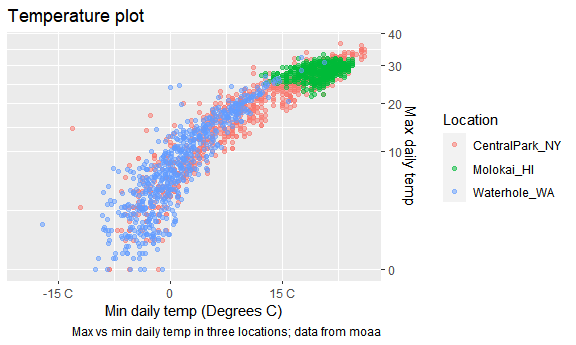
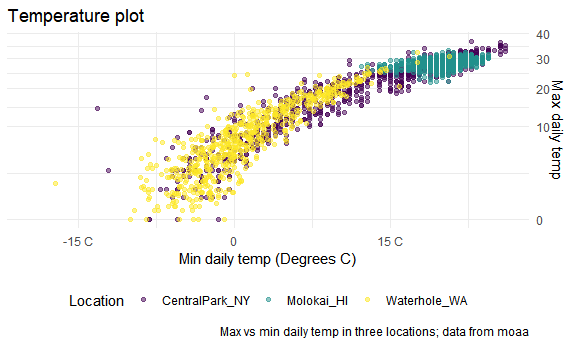
complicated plots

diff --git a/viz_part2.md b/viz_part2.md
@@ -17,11 +17,23 @@ library(tidyverse)
     ## ℹ Use the conflicted package (<http://conflicted.r-lib.org/>) to force all conflicts to become errors
 
 ``` r
+library(patchwork)
+
 knitr::opts_chunk$set(
   fig.width = 6,
   fig.asp = .6,
   out.width = "90%"
 )
+
+theme_set(theme_minimal() + theme(legend.position = "bottom"))
+
+options(
+  ggplot2.continuous.colour = "viridis",
+  ggplot2.continuous.fill = "viridis"
+)
+
+scale_colour_discrete = scale_colour_viridis_d
+scale_fill_discrete = scale_fill_viridis_d
 ```
 
 ``` r
@@ -129,3 +141,190 @@ weather_df |>
 <img src="viz_part2_files/figure-gfm/unnamed-chunk-5-1.png" width="90%" />
 
 ## Themes
+
+``` r
+weather_df |> 
+  ggplot(aes(x = tmin, y = tmax, color = name)) +
+  geom_point(alpha = 0.5) +
+  labs(
+    title = "Temperature plot",
+    x = "Min daily temp (Degrees C)",
+    y = "Max daily temp",
+    color = "Location",
+    caption = "Max vs min daily temp in three locations; data from moaa"
+  ) +
+  viridis::scale_color_viridis(discrete = TRUE) +
+  theme_minimal() +
+  theme(legend.position = "bottom") 
+```
+
+    ## Warning: Removed 17 rows containing missing values (`geom_point()`).
+
+<img src="viz_part2_files/figure-gfm/unnamed-chunk-6-1.png" width="90%" />
+
+## data argument …
+
+``` r
+weather_df |> 
+  ggplot(aes(x = date, y = tmax)) +
+  geom_point(aes(color = name)) +
+  geom_smooth()
+```
+
+    ## `geom_smooth()` using method = 'gam' and formula = 'y ~ s(x, bs = "cs")'
+
+    ## Warning: Removed 17 rows containing non-finite values (`stat_smooth()`).
+
+    ## Warning: Removed 17 rows containing missing values (`geom_point()`).
+
+<img src="viz_part2_files/figure-gfm/unnamed-chunk-7-1.png" width="90%" />
+
+``` r
+nyc_weather_df =
+  weather_df |> 
+  filter(name == "CentralPark_Ny")
+
+hawaii_weather_df =
+  weather_df |> 
+  filter(name == "Molokai_HI")
+
+ggplot(nyc_weather_df, aes(x = date, y = tmax, color = name)) +
+  geom_point() +
+  geom_line(data = hawaii_weather_df)
+```
+
+<img src="viz_part2_files/figure-gfm/unnamed-chunk-7-2.png" width="90%" />
+
+## `patchwork`
+
+``` r
+weather_df |> 
+  ggplot(aes(x = date, y = tmax, color = name)) +
+  geom_point() +
+  facet_grid(. ~ name)
+```
+
+    ## Warning: Removed 17 rows containing missing values (`geom_point()`).
+
+<img src="viz_part2_files/figure-gfm/unnamed-chunk-8-1.png" width="90%" />
+
+``` r
+ggp_temp_scatter =
+  weather_df |> 
+  ggplot(aes(x = tmin, y = tmax, color = name)) +
+  geom_point(alpha = 0.5)+
+  theme(legend.position = "none")
+
+ggp_prcp_density =
+  weather_df |> 
+  filter(prcp > 25) |> 
+  ggplot(aes(x = prcp, fill = name)) +
+  geom_density(alpha = 0.5)+
+  theme(legend.position = "none")
+
+ggp_tmax_date =
+  weather_df |> 
+  ggplot(aes(x = date, y = tmax, color = name)) +
+  geom_point() +
+  geom_smooth(se = FALSE) +
+  theme(legend.position = "bottom")
+
+(ggp_temp_scatter + ggp_prcp_density) / ggp_tmax_date
+```
+
+    ## Warning: Removed 17 rows containing missing values (`geom_point()`).
+
+    ## `geom_smooth()` using method = 'loess' and formula = 'y ~ x'
+
+    ## Warning: Removed 17 rows containing non-finite values (`stat_smooth()`).
+    ## Removed 17 rows containing missing values (`geom_point()`).
+
+<img src="viz_part2_files/figure-gfm/unnamed-chunk-9-1.png" width="90%" />
+
+## data manipulation
+
+``` r
+weather_df |> 
+  mutate(
+    name = fct_relevel(name, c("Molokai_HI", "CentralPark_NY", "Waterhole_WA"))
+  ) |> 
+  ggplot(aes(x = name, y = tmax)) +
+  geom_boxplot()
+```
+
+    ## Warning: Removed 17 rows containing non-finite values (`stat_boxplot()`).
+
+<img src="viz_part2_files/figure-gfm/unnamed-chunk-10-1.png" width="90%" />
+
+``` r
+weather_df |> 
+  mutate(
+    name = fct_reorder(name, tmax)
+  ) |> 
+  ggplot(aes(x = name, y = tmax, fill = name)) +
+  geom_violin()
+```
+
+    ## Warning: There was 1 warning in `mutate()`.
+    ## ℹ In argument: `name = fct_reorder(name, tmax)`.
+    ## Caused by warning:
+    ## ! `fct_reorder()` removing 17 missing values.
+    ## ℹ Use `.na_rm = TRUE` to silence this message.
+    ## ℹ Use `.na_rm = FALSE` to preserve NAs.
+
+    ## Warning: Removed 17 rows containing non-finite values (`stat_ydensity()`).
+
+<img src="viz_part2_files/figure-gfm/unnamed-chunk-10-2.png" width="90%" />
+
+## complicated FAS plot
+
+``` r
+litters_df = 
+  read_csv("data/FAS_litters.csv") |> 
+  janitor::clean_names() |> 
+  separate(group, into = c("dose", "day_of_tx"), sep = 3)
+```
+
+    ## Rows: 49 Columns: 8
+    ## ── Column specification ────────────────────────────────────────────────────────
+    ## Delimiter: ","
+    ## chr (2): Group, Litter Number
+    ## dbl (6): GD0 weight, GD18 weight, GD of Birth, Pups born alive, Pups dead @ ...
+    ## 
+    ## ℹ Use `spec()` to retrieve the full column specification for this data.
+    ## ℹ Specify the column types or set `show_col_types = FALSE` to quiet this message.
+
+``` r
+pups_df =
+  read_csv("data/FAS_pups.csv") |> 
+  janitor::clean_names()
+```
+
+    ## Rows: 313 Columns: 6
+    ## ── Column specification ────────────────────────────────────────────────────────
+    ## Delimiter: ","
+    ## chr (1): Litter Number
+    ## dbl (5): Sex, PD ears, PD eyes, PD pivot, PD walk
+    ## 
+    ## ℹ Use `spec()` to retrieve the full column specification for this data.
+    ## ℹ Specify the column types or set `show_col_types = FALSE` to quiet this message.
+
+``` r
+fas_df =
+  left_join(pups_df, litters_df, by = "litter_number")
+
+fas_df |> 
+  select(dose, day_of_tx, starts_with("pd")) |> 
+  pivot_longer(
+    pd_ears:pd_walk,
+    names_to = "outcome",
+    values_to = "pn_day"
+  ) |> 
+  drop_na() |> 
+  mutate(outcome = fct_reorder(outcome, pn_day)) |> 
+  ggplot(aes(x = dose, y = pn_day)) +
+  geom_violin() +
+  facet_grid(day_of_tx ~ outcome)
+```
+
+<img src="viz_part2_files/figure-gfm/unnamed-chunk-11-1.png" width="90%" />
